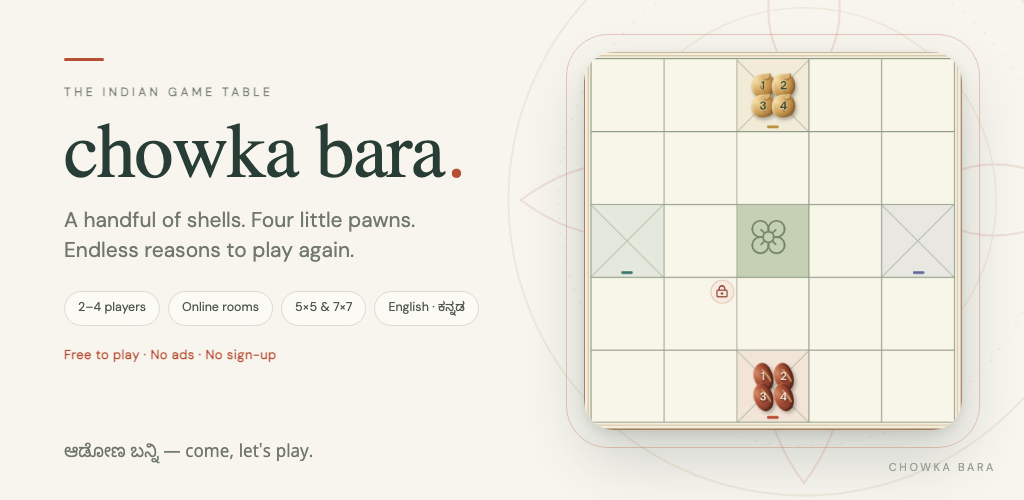
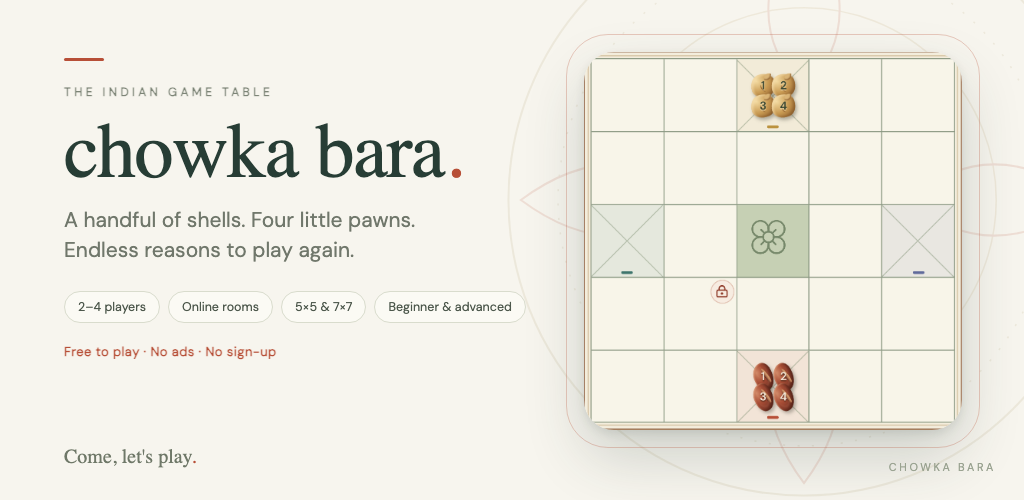
chore(store): drop the Kannada claim from the listing art (#23)
The language option is gone, so the feature graphic no longer shows the
English/Kannada chip or the Kannada sign-off, and the Kannada screenshot
and listing copy are removed with it.

diff --git a/docs/PLAY_STORE.md b/docs/PLAY_STORE.md
@@ -152,13 +152,13 @@ Three ways to sit at the table:
 
 Choose the compact 5×5 classic or the expansive 7×7 grand board. Play the friendly ruleset or require a capture before entering the center. Turn on move hints if you are learning, or turn them off for a cleaner game.
 
-The whole game speaks both English and Kannada, with a light and a dark theme.
+A light theme and a calm dark theme, made for late-night tables.
 
 No ads. No sign-up. No in-app purchases. Online rooms keep a display name, an avatar, and the game state for 24 hours, then delete themselves. Local and practice games stay on your phone.
 
 An internet connection is needed to open the game and to play online. Rooms are private: nobody can join without the code.
 
-ಆಡೋಣ ಬನ್ನಿ — come, let's play.
+Come, let's play.
 ```
 
 Do not add "best", "#1", "free download", emoji spam, or keyword lists.
@@ -169,16 +169,15 @@ Do not add "best", "#1", "free download", emoji spam, or keyword lists.
 | --- | --- | --- |
 | App icon | 512 × 512 PNG, 32-bit | `store/play/icon-512.png` |
 | Feature graphic | 1024 × 500 PNG | `store/play/feature-graphic-1024x500.png` |
-| Phone screenshots | 1080 × 1920 PNG, 6 of them | `store/play/screenshots/01-home.png` … `06-kannada.png` |
+| Phone screenshots | 1080 × 1920 PNG, 5 of them | `store/play/screenshots/01-home.png` … `05-settings.png` |
 
 Screenshot order for the listing:
 
 1. `01-home.png` — the welcome and the three ways to play
 2. `03-board.png` — the 5×5 board in a practice game
 3. `04-throw.png` — a throw resolved, with a legal move highlighted
-4. `06-kannada.png` — the same table in Kannada
-5. `02-how-to-play.png` — the rules guide
-6. `05-settings.png` — avatars and the beginner/advanced choice
+4. `02-how-to-play.png` — the rules guide
+5. `05-settings.png` — avatars and the beginner/advanced choice
 
 Regenerate them at any time:
 
